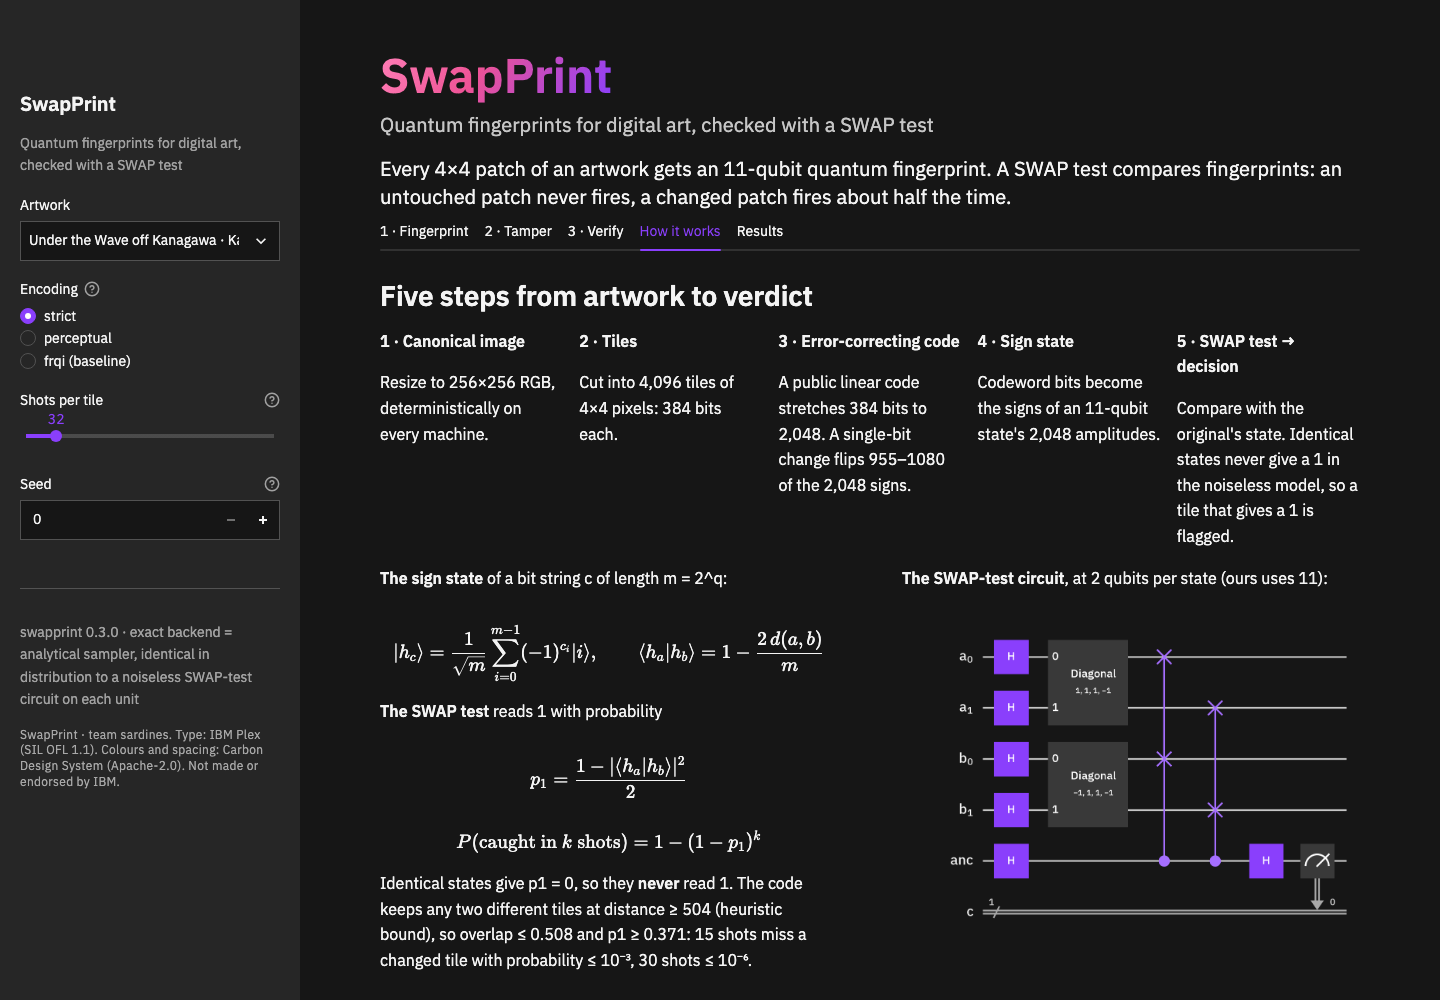
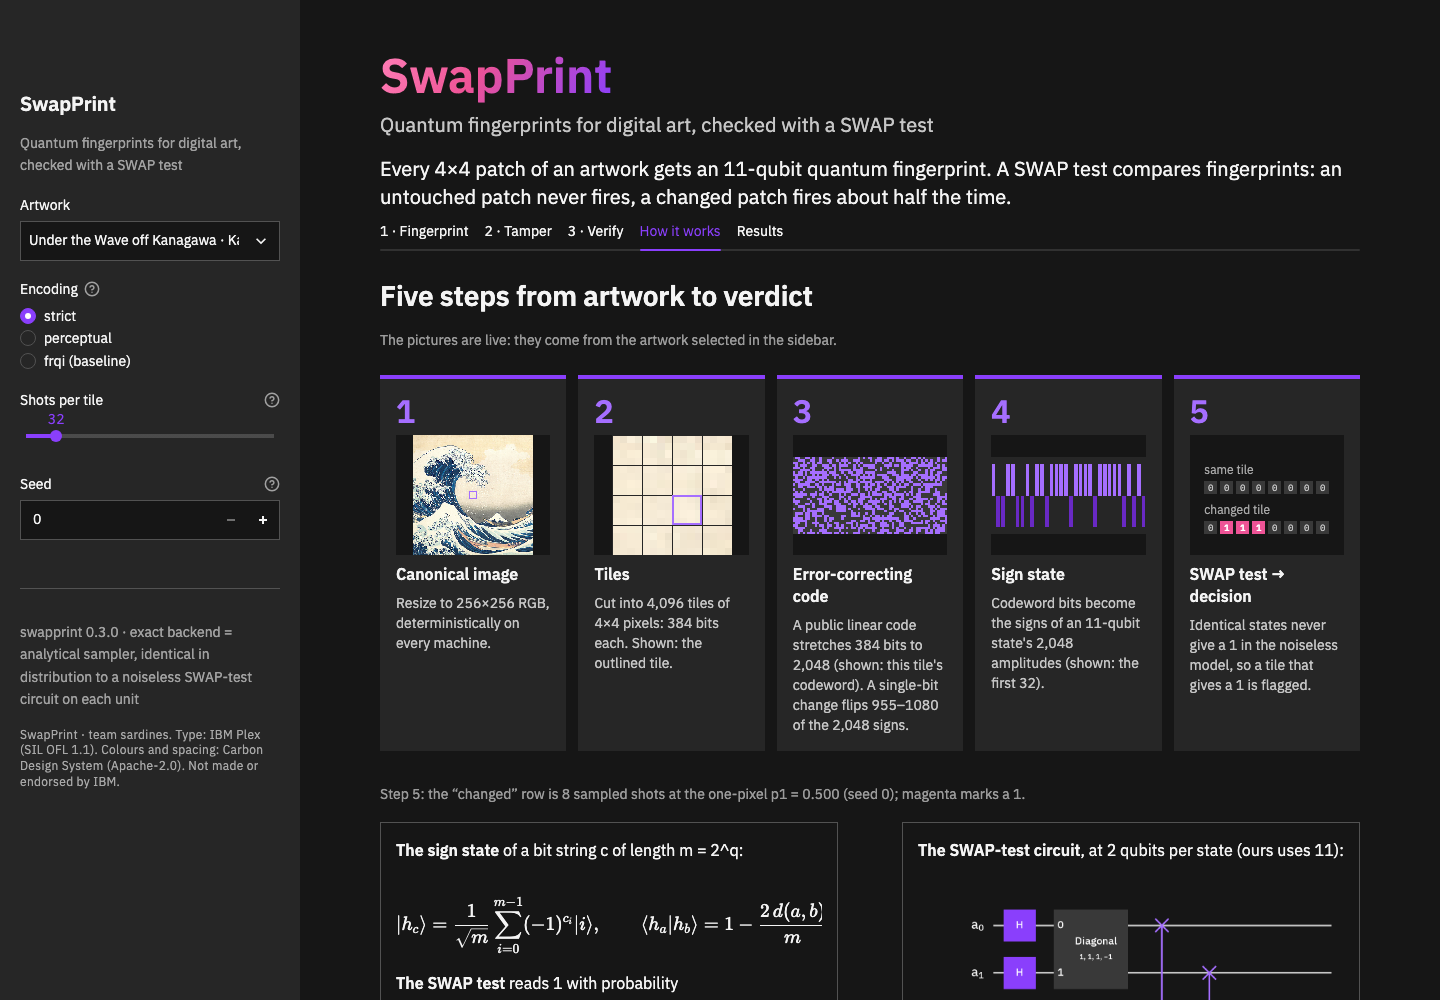
app: Carbon disabled style for buttons; refresh README screenshots
Disabled buttons (Apply/Undo during spot-the-edit, Challenge a friend with no edits) looked active
because carbon.css styles every button the same. They now use Carbon's disabled grey. Screenshots
in app/screenshots/ retaken on this build (tamper.png now shows full button labels; how.png the tiles).

Changed region(s): [[0.25, 0.31, 0.9375, 0.992], [0.25, 0.837, 0.5938, 0.992]]

diff --git a/app/streamlit_app.py b/app/streamlit_app.py
@@ -56,6 +56,11 @@ def carbon_css() -> str:
   background-clip: text; color: transparent;}}
 .sp-sub {{color: var(--text-secondary, #c6c6c6); font-size: 1.25rem; line-height: 1.4; margin-bottom: var(--sp-05, 16px);}}
 .sp-credit {{color: var(--text-helper, #a8a8a8); font-size: 0.75rem; letter-spacing: 0.32px; line-height: 1.33;}}
+.stButton > button:disabled, .stDownloadButton > button:disabled, [data-testid^="stBaseButton"]:disabled,
+.stButton > button:disabled:hover, [data-testid^="stBaseButton"]:disabled:hover {{
+  background: transparent; border: 1px solid #525252; color: #8d8d8d; cursor: not-allowed;}}
+.stButton > button[kind="primary"]:disabled, [data-testid="stBaseButton-primary"]:disabled,
+[data-testid="stBaseButton-primary"]:disabled:hover {{background: #525252; border-color: transparent; color: #8d8d8d;}}
 .sp-steps {{display: grid; grid-template-columns: repeat(5, minmax(0, 1fr)); gap: var(--sp-04, 12px);
   margin: var(--sp-03, 8px) 0 var(--sp-07, 32px) 0;}}
 .sp-step {{background: var(--layer-01, #262626); border-top: 4px solid {PURPLE}; padding: var(--sp-05, 16px);
